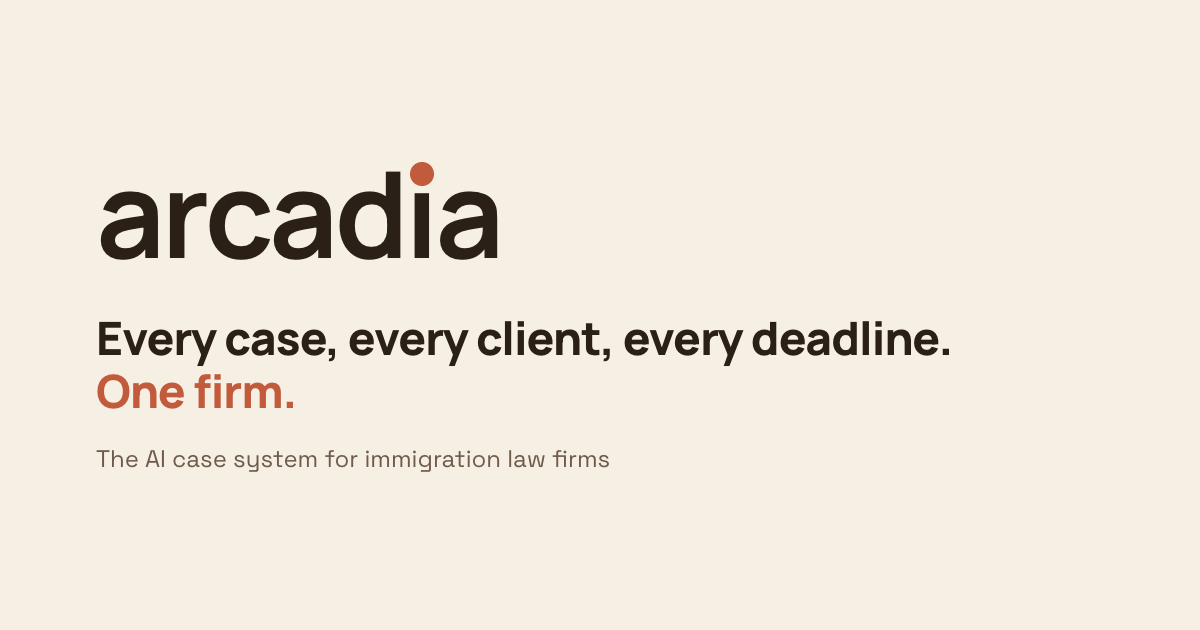
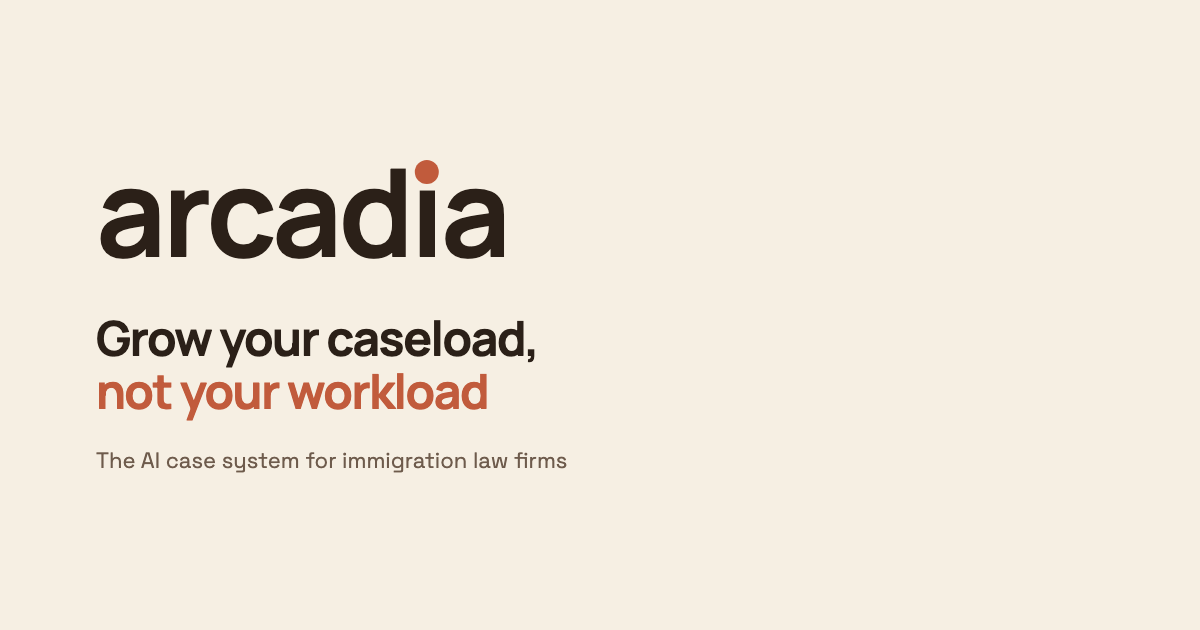
New headline: "Grow your caseload, not your workload"
The hero now reads "Grow your caseload, not your workload" with "You practice law. Leave the busywork to Arcadia."
beneath it, on two lines on desktop. The link-preview picture and description carry the new headline. Murphy's bio
drops "seasoned".

Changed region(s): [[0.0617, 0.5127, 0.8017, 0.6635], [0.0925, 0.2413, 0.4317, 0.4222], [0.0925, 0.7238, 0.5242, 0.754]]

diff --git a/index.html b/index.html
@@ -8,7 +8,7 @@
   <meta name="theme-color" content="#f6efe3">
   <meta name="format-detection" content="telephone=no">
   <meta property="og:title" content="Arcadia · The AI case system for immigration law firms">
-  <meta property="og:description" content="Every case, every client, every deadline. One firm.">
+  <meta property="og:description" content="Grow your caseload, not your workload">
   <meta property="og:type" content="website">
   <meta property="og:url" content="https://arcadiaimmtech.com/">
   <meta property="og:image" content="https://arcadiaimmtech.com/assets/og.png">
@@ -45,8 +45,8 @@
       <div class="wrap">
         <div class="hero-copy">
           <p class="eyebrow">The AI case system for immigration law firms</p>
-          <h1>Every case, every client, every deadline. <span class="accent nowrap">One firm.</span></h1>
-          <p class="lede">Arcadia takes the paperwork, follow-ups and cross-checking off your team's desk. Every case keeps moving, every date stays in sight, and your attorneys get back to practicing law.</p>
+          <h1>Grow your caseload, <span class="accent nowrap">not your workload</span></h1>
+          <p class="lede">You practice law. Leave the busywork to Arcadia.</p>
           <div class="hero-actions">
             <a class="btn btn-primary" href="#demo" data-demo>Request a private demo <span class="arrow" aria-hidden="true">→</span></a>
             <a class="btn btn-quiet" href="#inside">Take a look inside</a>
@@ -266,7 +266,7 @@
                 <p class="role">Founder &amp; CEO</p>
               </div>
             </header>
-            <p>Murphy is a seasoned paralegal and legal intake manager. Working inside law firms, he saw the same thing every day: talented attorneys and staff buried under paperwork, chasing documents and deadlines, while clients waited for answers. He founded Arcadia to change that, building the system he wished his firm had, so attorneys can spend their time practicing law.</p>
+            <p>Murphy is a paralegal and legal intake manager. Working inside law firms, he saw the same thing every day: talented attorneys and staff buried under paperwork, chasing documents and deadlines, while clients waited for answers. He founded Arcadia to change that, building the system he wished his firm had, so attorneys can spend their time practicing law.</p>
           </article>
           <article class="person reveal">
             <header>

diff --git a/assets/styles.css b/assets/styles.css
@@ -474,9 +474,18 @@ section {
 
 .hero .wrap {
   display: grid;
-  grid-template-columns: 1fr 1.08fr;
+  grid-template-columns: 1.1fr 1fr;
   gap: clamp(32px, 5vw, 72px);
   align-items: center;
+}
+
+/* The headline's second half always starts its own line. */
+.hero h1 {
+  font-size: clamp(38px, 4.6vw, 55px);
+}
+
+.hero h1 .accent {
+  display: block;
 }
 
 .hero .lede {
